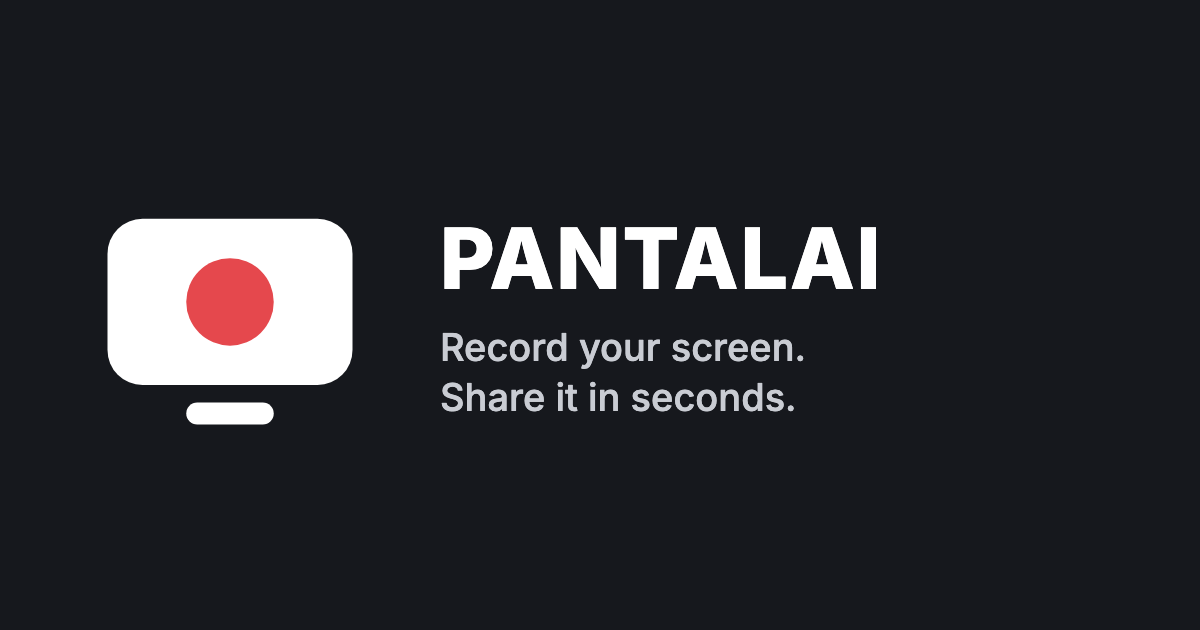
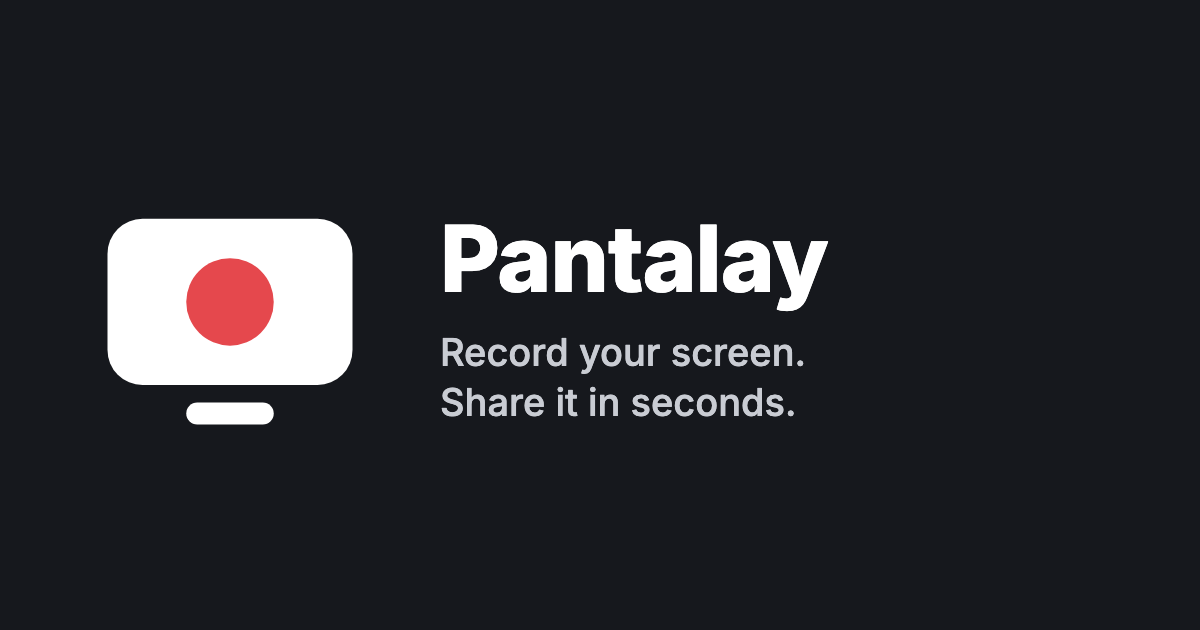
feat(marca): la marca pública pasa a ser Pantalay (pantallas, Docs, tarjeta para redes, descargas); por dentro sigue PANTALAI

Changed region(s): [[0.37, 0.3317, 0.74, 0.5127], [0.37, 0.5127, 0.6783, 0.6635]]

diff --git a/web/src/paginas/guias.ts b/web/src/paginas/guias.ts
@@ -29,7 +29,7 @@ export const GUIAS: Guia[] = [
       titulo: 'Start here: your first video in 5 minutes',
       resumen: 'Create your account, record, let AI do the rest, share and edit — step by step.',
       cuerpo: [
-        '1. Create your account. Open PANTALAI and press Sign up. Write your name, your email and a password of at least 8 characters, and press Create account. You land in your library.',
+        '1. Create your account. Open Pantalay and press Sign up. Write your name, your email and a password of at least 8 characters, and press Create account. You land in your library.',
         '2. Record. Press the red Record button. Choose Screen + Cam, pick your camera and microphone, choose the quality and the language you will speak, and press Start recording. Your browser asks what to share: choose a screen, a window or a tab and press Share. After a 3-second countdown, talk and show what you want.',
         '3. Finish. Press Finish (or “Stop sharing” in the browser bar). Your video is already uploaded and its link is copied: you can paste it anywhere right away.',
         '4. Let AI work. Your video opens and a line at the top shows that AI is working. In about a minute you get a title, a summary, chapters on the progress bar, the tasks you mentioned, and an accurate transcript with captions.',
@@ -42,7 +42,7 @@ export const GUIAS: Guia[] = [
       titulo: 'Empieza aquí: tu primer video en 5 minutos',
       resumen: 'Crea tu cuenta, graba, deja que la IA haga el resto, comparte y edita, paso a paso.',
       cuerpo: [
-        '1. Crea tu cuenta. Abre PANTALAI y toca Crear cuenta. Escribe tu nombre, tu correo y una contraseña de al menos 8 caracteres, y toca Crear cuenta. Llegas a tu biblioteca.',
+        '1. Crea tu cuenta. Abre Pantalay y toca Crear cuenta. Escribe tu nombre, tu correo y una contraseña de al menos 8 caracteres, y toca Crear cuenta. Llegas a tu biblioteca.',
         '2. Graba. Toca el botón rojo Grabar. Elige Pantalla + cámara, escoge tu cámara y tu micrófono, la calidad y el idioma en que vas a hablar, y toca Empezar a grabar. El navegador te pregunta qué compartir: elige una pantalla, una ventana o una pestaña y toca Compartir. Después de la cuenta de 3 segundos, habla y muestra lo que quieras.',
         '3. Termina. Toca Terminar (o «Dejar de compartir» en la barra del navegador). Tu video ya está subido y su enlace copiado: lo puedes pegar donde quieras de inmediato.',
         '4. Deja trabajar a la IA. Se abre tu video y arriba aparece que la IA está trabajando. En más o menos un minuto tienes título, resumen, capítulos en la barra, las tareas que mencionaste y una transcripción precisa con subtítulos.',
@@ -58,23 +58,23 @@ export const GUIAS: Guia[] = [
     icono: '👋',
     imagen: 'video',
     en: {
-      titulo: 'What is PANTALAI',
+      titulo: 'What is Pantalay',
       resumen: 'Record your screen and camera, and share it with a link in seconds.',
       cuerpo: [
-        'PANTALAI is a screen recorder that lives in your browser. There is nothing to install: open the site, press Record, and talk.',
+        'Pantalay is a screen recorder that lives in your browser. There is nothing to install: open the site, press Record, and talk.',
         'When you finish, your video is already uploaded and the link is copied. Paste it in an email, a chat or a ticket, and whoever opens it can watch right away — no account needed.',
         'Every video comes with a live transcript, captions, chapters, comments, reactions and insights about who watched it.',
-        'PANTALAI works best in Chrome or Edge on a computer. Firefox can record too; live transcription needs Chrome or Edge.',
+        'Pantalay works best in Chrome or Edge on a computer. Firefox can record too; live transcription needs Chrome or Edge.',
       ],
     },
     es: {
-      titulo: 'Qué es PANTALAI',
+      titulo: 'Qué es Pantalay',
       resumen: 'Graba tu pantalla y tu cámara, y compártelo con un enlace en segundos.',
       cuerpo: [
-        'PANTALAI es un grabador de pantalla que vive en tu navegador. No hay nada que instalar: abres el sitio, tocas Grabar y hablas.',
+        'Pantalay es un grabador de pantalla que vive en tu navegador. No hay nada que instalar: abres el sitio, tocas Grabar y hablas.',
         'Cuando terminas, el video ya está subido y el enlace copiado. Pégalo en un correo, un chat o un ticket, y quien lo abra lo ve al instante, sin necesidad de cuenta.',
         'Cada video trae transcripción en vivo, subtítulos, capítulos, comentarios, reacciones y estadísticas de quién lo vio.',
-        'PANTALAI funciona mejor en Chrome o Edge en una computadora. Firefox también graba; la transcripción en vivo necesita Chrome o Edge.',
+        'Pantalay funciona mejor en Chrome o Edge en una computadora. Firefox también graba; la transcripción en vivo necesita Chrome o Edge.',
       ],
     },
   },
@@ -116,7 +116,7 @@ export const GUIAS: Guia[] = [
         'Choose the quality: 720p, 1080p HD or 4K. There is no time limit and no watermark.',
         'Press Start recording. Your browser asks which screen, window or tab to share — choose it and press Share. After a 3-second countdown, you are live.',
         'While recording you can Pause, Resume, Restart or Discard. When you are done, press Finish, or press “Stop sharing” in the bar of your browser.',
-        'Shortcuts while the PANTALAI tab is open: Alt + Shift + P pauses or resumes, Alt + Shift + S finishes.',
+        'Shortcuts while the Pantalay tab is open: Alt + Shift + P pauses or resumes, Alt + Shift + S finishes.',
       ],
     },
     es: {
@@ -128,7 +128,7 @@ export const GUIAS: Guia[] = [
         'Elige la calidad: 720p, 1080p HD o 4K. No hay límite de tiempo ni marca de agua.',
         'Toca Empezar a grabar. El navegador te pregunta qué pantalla, ventana o pestaña compartir: elígela y toca Compartir. Tras una cuenta de 3 segundos, estás grabando.',
         'Mientras grabas puedes Pausar, Seguir, Reiniciar o Descartar. Cuando termines, toca Terminar, o toca «Dejar de compartir» en la barra del navegador.',
-        'Atajos con la pestaña de PANTALAI abierta: Alt + Shift + P pausa o sigue, Alt + Shift + S termina.',
+        'Atajos con la pestaña de Pantalay abierta: Alt + Shift + P pausa o sigue, Alt + Shift + S termina.',
       ],
     },
   },
@@ -189,7 +189,7 @@ export const GUIAS: Guia[] = [
       resumen: 'If the internet drops, the recording stays safe on your computer.',
       cuerpo: [
         'Your video uploads while you record, piece by piece. Each piece is also kept on your computer until the upload finishes.',
-        'If the connection fails, PANTALAI keeps trying on its own. If it still cannot finish, you will see Try again and Download recording.',
+        'If the connection fails, Pantalay keeps trying on its own. If it still cannot finish, you will see Try again and Download recording.',
         'If you closed the tab before it finished, open your library: recordings saved on this computer appear at the top, ready to download.',
       ],
     },
@@ -198,7 +198,7 @@ export const GUIAS: Guia[] = [
       resumen: 'Si se cae el internet, la grabación queda a salvo en tu computadora.',
       cuerpo: [
         'El video se sube mientras grabas, por partes. Cada parte también queda guardada en tu computadora hasta que la subida termina.',
-        'Si la conexión falla, PANTALAI sigue intentando solo. Si aun así no puede terminar, verás Intentar otra vez y Descargar la grabación.',
+        'Si la conexión falla, Pantalay sigue intentando solo. Si aun así no puede terminar, verás Intentar otra vez y Descargar la grabación.',
         'Si cerraste la pestaña antes de que terminara, abre tu biblioteca: arriba aparecen las grabaciones guardadas en esta computadora, listas para descargar.',
       ],
     },
@@ -309,7 +309,7 @@ export const GUIAS: Guia[] = [
       cuerpo: [
         'The progress bar is split by chapters: hover a part to see its name.',
         'Shortcuts: K or space plays and pauses, J and L go back and forward 5 seconds, M mutes, A turns captions on or off, S changes the speed, T switches theater mode, F goes full screen and P opens picture-in-picture.',
-        'Speeds go from 0.5× to 2.5×. PANTALAI remembers the speed you like.',
+        'Speeds go from 0.5× to 2.5×. Pantalay remembers the speed you like.',
       ],
     },
     es: {
@@ -318,7 +318,7 @@ export const GUIAS: Guia[] = [
       cuerpo: [
         'La barra de progreso está partida por capítulos: pasa el mouse por una parte para ver su nombre.',
         'Atajos: K o la barra espaciadora reproducen y pausan, J y L van 5 segundos atrás y adelante, M silencia, A enciende o apaga los subtítulos, S cambia la velocidad, T cambia el modo teatro, F pone pantalla completa y P abre la imagen en imagen.',
-        'Las velocidades van de 0.5× a 2.5×. PANTALAI recuerda la velocidad que te gusta.',
+        'Las velocidades van de 0.5× a 2.5×. Pantalay recuerda la velocidad que te gusta.',
       ],
     },
   },
@@ -334,7 +334,7 @@ export const GUIAS: Guia[] = [
         'Open your video and press Edit.',
         'Trim: move Start and End to cut the beginning and the end. “Use current time” takes the minute you are watching.',
         'Cut by transcript: tap a sentence to remove that part. Tap it again to bring it back.',
-        'Remove silences: PANTALAI listens to the audio, finds long pauses and cuts them for you.',
+        'Remove silences: Pantalay listens to the audio, finds long pauses and cuts them for you.',
         'Turn on Preview to watch the final version. Edits never touch your original file, so you can undo anything later. Press Save when you are happy.',
       ],
     },
@@ -345,7 +345,7 @@ export const GUIAS: Guia[] = [
         'Abre tu video y toca Editar.',
         'Recortar: mueve Inicio y Final para quitar el principio y el final. «Usar el minuto actual» toma el minuto que estás viendo.',
         'Cortar con la transcripción: toca una frase para quitar esa parte. Tócala otra vez para devolverla.',
-        'Quitar silencios: PANTALAI escucha el audio, encuentra las pausas largas y las corta por ti.',
+        'Quitar silencios: Pantalay escucha el audio, encuentra las pausas largas y las corta por ti.',
         'Enciende Vista previa para ver cómo queda. Editar nunca toca tu archivo original, así que puedes deshacer cualquier cosa después. Toca Guardar cuando te guste.',
       ],
     },
@@ -356,7 +356,7 @@ export const GUIAS: Guia[] = [
     icono: '📑',
     en: {
       titulo: 'Chapters, title and summary',
-      resumen: 'Let PANTALAI suggest them from what you said, or write your own.',
+      resumen: 'Let Pantalay suggest them from what you said, or write your own.',
       cuerpo: [
         'In the editor, “Suggest title from transcript” proposes a title from your first words. You can change it any time.',
         'Generate chapters splits the video where you paused, using your own words as names. You can rename, add or delete chapters.',
@@ -365,7 +365,7 @@ export const GUIAS: Guia[] = [
     },
     es: {
       titulo: 'Capítulos, título y resumen',
-      resumen: 'Deja que PANTALAI los sugiera con lo que dijiste, o escríbelos tú.',
+      resumen: 'Deja que Pantalay los sugiera con lo que dijiste, o escríbelos tú.',
       cuerpo: [
         'En el editor, «Sugerir título con la transcripción» propone un título con tus primeras palabras. Lo puedes cambiar cuando quieras.',
         'Crear capítulos parte el video donde hiciste pausas, con tus propias palabras como nombre. Puedes renombrar, agregar o borrar capítulos.',
@@ -435,7 +435,7 @@ export const GUIAS: Guia[] = [
       cuerpo: [
         'Open your video and press Edit. If AI found filler sounds, you will see “Remove filler words” with how many it found and how many seconds it saves.',
         'Press it and those moments are skipped when people watch. Turn on Preview to hear the result.',
-        'Like every edit in PANTALAI, it never touches the original file: press “Bring back all cuts” to undo it.',
+        'Like every edit in Pantalay, it never touches the original file: press “Bring back all cuts” to undo it.',
       ],
     },
     es: {
@@ -444,7 +444,7 @@ export const GUIAS: Guia[] = [
       cuerpo: [
         'Abre tu video y toca Editar. Si la IA encontró muletillas, verás «Quitar muletillas» con cuántas encontró y cuántos segundos ahorra.',
         'Tócalo y esos momentos se saltan cuando alguien lo ve. Enciende Vista previa para escuchar cómo queda.',
-        'Como toda edición en PANTALAI, nunca toca el archivo original: toca «Devolver todos los cortes» para deshacerlo.',
+        'Como toda edición en Pantalay, nunca toca el archivo original: toca «Devolver todos los cortes» para deshacerlo.',
       ],
     },
   },

diff --git a/servidor/app.ts b/servidor/app.ts
@@ -1025,7 +1025,7 @@ app.get('/media/:id/video', async (c) => {
   h.set('Cache-Control', v.privacidad === 'enlace' ? 'private, no-cache' : 'private, no-store');
   h.set('ETag', obj.httpEtag);
   if (descargar) {
-    const nombre = v.titulo.replace(/[^\p{L}\p{N} _-]/gu, '').slice(0, 80) || 'pantalai';
+    const nombre = v.titulo.replace(/[^\p{L}\p{N} _-]/gu, '').slice(0, 80) || 'pantalay';
     h.set(
       'Content-Disposition',
       `attachment; filename="${nombre}.${v.tipo.includes('mp4') ? 'mp4' : 'webm'}"`,
@@ -1061,7 +1061,7 @@ function escaparAtributo(t: string): string {
 }
 
 async function paginaApp(c: C): Promise<Response> {
-  if (!c.env.ASSETS) return c.text('PANTALAI', 200);
+  if (!c.env.ASSETS) return c.text('Pantalay', 200);
   const origen = new URL(c.req.url).origin;
   // La página base es app.html; algunos servidores de estáticos redirigen «/app.html» a «/app»: se sigue una vez.
   let r = await c.env.ASSETS.fetch(new Request(`${origen}/app.html`));
@@ -1070,7 +1070,7 @@ async function paginaApp(c: C): Promise<Response> {
     r = await c.env.ASSETS.fetch(new Request(new URL(destino, origen)));
   if (!r.ok) {
     console.error('página base no encontrada', r.status);
-    return c.text('PANTALAI', 500);
+    return c.text('Pantalay', 500);
   }
   return new Response(r.body, { status: 200, headers: { 'content-type': 'text/html; charset=utf-8' } });
 }
@@ -1081,8 +1081,8 @@ app.get('/v/:id', async (c) => {
   const v = await buscarVideo(c, c.req.param('id'));
   if (!v || v.estado !== 'listo' || v.privacidad !== 'enlace') return pagina;
   const origen = new URL(c.req.url).origin;
-  const titulo = escaparAtributo(`${v.titulo} · PANTALAI`);
-  const desc = escaparAtributo(v.descripcion.slice(0, 200) || 'Video on PANTALAI');
+  const titulo = escaparAtributo(`${v.titulo} · Pantalay`);
+  const desc = escaparAtributo(v.descripcion.slice(0, 200) || 'Video on Pantalay');
   const imagen = v.tiene_miniatura ? `${origen}/media/${v.id}/miniatura` : `${origen}/og.png`;
   const html = (await pagina.text())
     .replace(/<title>[^<]*<\/title>/, `<title>${titulo}</title>`)
@@ -1096,7 +1096,7 @@ app.get('/v/:id', async (c) => {
 app.all('/datos/*', (c) => err(c, 404, 'ruta'));
 
 app.get('*', async (c) => {
-  if (!c.env.ASSETS) return c.text('PANTALAI', 200);
+  if (!c.env.ASSETS) return c.text('Pantalay', 200);
   const r = await c.env.ASSETS.fetch(c.req.raw);
   // Copia con cabeceras propias: las del almacén de estáticos no se pueden modificar.
   if (r.status !== 404) return new Response(r.body, r);

diff --git a/web/src/logica/idioma.ts b/web/src/logica/idioma.ts
@@ -9,7 +9,7 @@ export const IDIOMAS: { codigo: Idioma; bandera: string }[] = [
 ];
 
 const en = {
-  marca: 'PANTALAI',
+  marca: 'Pantalay',
   lema: 'Record your screen. Share it in seconds.',
   sublema:
     'Screen, camera and voice in one click. Your link is ready the moment you stop, with live captions, chapters and viewer insights. Free.',
@@ -30,7 +30,7 @@ const en = {
   ocultarClave: 'Hide password',
   crearCuenta: 'Create account',
   yaTengo: 'Already have an account?',
-  noTengo: 'New to PANTALAI?',
+  noTengo: 'New to Pantalay?',
   recuperado: 'We recovered what you were typing.',
   empezarDeNuevo: 'Start over',
   // errores
@@ -157,7 +157,7 @@ const en = {
   atras: 'Back 5 seconds',
   adelante: 'Forward 5 seconds',
   atajos: 'Shortcuts: K play · J/L ±5s · M mute · A captions · S speed · T theater · F full screen',
-  grabadoCon: 'Recorded with PANTALAI',
+  grabadoCon: 'Recorded with Pantalay',
   hazElTuyo: 'Record your own',
   // compartir
   compartirTitulo: 'Share this video',
@@ -258,7 +258,7 @@ const en = {
 type Clave = keyof typeof en;
 
 const es: Record<Clave, string> = {
-  marca: 'PANTALAI',
+  marca: 'Pantalay',
   lema: 'Graba tu pantalla. Compártela en segundos.',
   sublema:
     'Pantalla, cámara y voz con un clic. El enlace está listo en cuanto terminas, con subtítulos en vivo, capítulos y estadísticas de quién lo vio. Gratis.',
@@ -278,7 +278,7 @@ const es: Record<Clave, string> = {
   ocultarClave: 'Ocultar la contraseña',
   crearCuenta: 'Crear cuenta',
   yaTengo: '¿Ya tienes cuenta?',
-  noTengo: '¿Eres nuevo en PANTALAI?',
+  noTengo: '¿Eres nuevo en Pantalay?',
   recuperado: 'Recuperamos lo que estabas escribiendo.',
   empezarDeNuevo: 'Empezar de nuevo',
   'error.credenciales': 'El correo y la contraseña no coinciden.',
@@ -404,7 +404,7 @@ const es: Record<Clave, string> = {
   adelante: 'Adelante 5 segundos',
   atajos:
     'Atajos: K reproducir · J/L ±5 s · M silencio · A subtítulos · S velocidad · T teatro · F pantalla completa',
-  grabadoCon: 'Grabado con PANTALAI',
+  grabadoCon: 'Grabado con Pantalay',
   hazElTuyo: 'Graba el tuyo',
   compartirTitulo: 'Compartir este video',
   quienVe: 'Quién puede verlo',

diff --git a/web/index.html b/web/index.html
@@ -3,14 +3,14 @@
   <head>
     <meta charset="UTF-8" />
     <meta name="viewport" content="width=device-width, initial-scale=1.0" />
-    <title>PANTALAI — Free screen recorder with instant sharing</title>
+    <title>Pantalay — Free screen recorder with instant sharing</title>
     <meta name="description" content="Record your screen and camera in your browser and share it with a link in seconds. Live transcript, captions, chapters, comments and viewer insights." />
     <link rel="icon" type="image/png" href="/icon.png" />
     <link rel="apple-touch-icon" href="/apple-icon.png" />
     <meta name="theme-color" content="#16181d" />
     <meta property="og:type" content="website" />
-    <meta property="og:site_name" content="PANTALAI" />
-    <meta property="og:title" content="PANTALAI — Free screen recorder with instant sharing" />
+    <meta property="og:site_name" content="Pantalay" />
+    <meta property="og:title" content="Pantalay — Free screen recorder with instant sharing" />
     <meta property="og:description" content="Record your screen and camera and share it with a link in seconds." />
     <meta property="og:image" content="https://pantalai.sitios.dev/og.png" />
     <meta property="og:url" content="https://pantalai.sitios.dev/" />

diff --git a/web/src/paginas/Grabar.tsx b/web/src/paginas/Grabar.tsx
@@ -265,7 +265,7 @@ export function Grabar() {
     const url = URL.createObjectURL(s.archivo(g?.tipo.split(';')[0] ?? 'video/webm'));
     const enlace = document.createElement('a');
     enlace.href = url;
-    enlace.download = `pantalai-${new Date().toISOString().slice(0, 19).replace(/[:T]/g, '-')}.webm`;
+    enlace.download = `pantalay-${new Date().toISOString().slice(0, 19).replace(/[:T]/g, '-')}.webm`;
     enlace.click();
     setTimeout(() => URL.revokeObjectURL(url), 10_000);
   }
@@ -617,7 +617,7 @@ export function Respaldos() {
                 const url = URL.createObjectURL(b);
                 const enlace = document.createElement('a');
                 enlace.href = url;
-                enlace.download = `pantalai-${r.id}.${r.tipo.includes('mp4') ? 'mp4' : 'webm'}`;
+                enlace.download = `pantalay-${r.id}.${r.tipo.includes('mp4') ? 'mp4' : 'webm'}`;
                 enlace.click();
                 setTimeout(() => URL.revokeObjectURL(url), 10_000);
               })

diff --git a/web/src/paginas/Video.tsx b/web/src/paginas/Video.tsx
@@ -54,7 +54,7 @@ export function PaginaVideo({ id, embebido = false }: { id: string; embebido?: b
     try {
       const r = await pedir<{ video: Video }>(`/datos/videos/${id}`);
       setVideo(r.video);
-      document.title = `${r.video.titulo} · PANTALAI`;
+      document.title = `${r.video.titulo} · Pantalay`;
     } catch (e) {
       setError(textoError(t, e instanceof ErrorApi ? e.codigo : 'servidor'));
     }
@@ -160,7 +160,7 @@ export function PaginaVideo({ id, embebido = false }: { id: string; embebido?: b
       <div className="embebido">
         {reproductorEl}
         <a className="marca-embebido" href={enlaceVideo(video.id)} target="_blank" rel="noopener noreferrer">
-          {video.titulo} · PANTALAI
+          {video.titulo} · Pantalay
         </a>
       </div>
     );

diff --git a/web/src/componentes/IA.tsx b/web/src/componentes/IA.tsx
@@ -245,11 +245,11 @@ ${doc.pasos
       }</li>`,
   )
   .join('\n')}
-</ol><p>${escapar(doc.cierre)}</p><p style="color:#6b7280;font-size:13px">PANTALAI · <a href="${enlace}">${enlace}</a></p></body>`;
+</ol><p>${escapar(doc.cierre)}</p><p style="color:#6b7280;font-size:13px">Pantalay · <a href="${enlace}">${enlace}</a></p></body>`;
     const url = URL.createObjectURL(new Blob([html], { type: 'text/html' }));
     const a = document.createElement('a');
     a.href = url;
-    a.download = `${doc.titulo.replace(/[^\p{L}\p{N} _-]/gu, '').slice(0, 60) || 'pantalai'}.html`;
+    a.download = `${doc.titulo.replace(/[^\p{L}\p{N} _-]/gu, '').slice(0, 60) || 'pantalay'}.html`;
     a.click();
     setTimeout(() => URL.revokeObjectURL(url), 10_000);
   }

diff --git a/servidor/ia/motor.ts b/servidor/ia/motor.ts
@@ -77,8 +77,8 @@ export class ErrorIA extends Error {
 
 /** Frase de arranque para que Whisper escriba las muletillas en vez de borrarlas (así se pueden quitar luego). */
 const ARRANQUE: Record<string, string> = {
-  en: 'Umm, let me think like, hmm... Okay, here is what I, uh, mean. PANTALAI.',
-  es: 'Eh, a ver, mmm... bueno, este, lo que quiero decir es, eh, esto. PANTALAI.',
+  en: 'Umm, let me think like, hmm... Okay, here is what I, uh, mean. Pantalay.',
+  es: 'Eh, a ver, mmm... bueno, este, lo que quiero decir es, eh, esto. Pantalay.',
 };
 
 type RespuestaWhisper = {

diff --git a/web/src/componentes/Marco.tsx b/web/src/componentes/Marco.tsx
@@ -12,7 +12,7 @@ export function Logo() {
         <circle cx="16" cy="14.5" r="5" fill="var(--rojo)" />
         <rect x="11" y="26" width="10" height="2.5" rx="1.25" fill="var(--tinta)" />
       </svg>
-      PANTALAI
+      Pantalay
     </span>
   );
 }
@@ -41,7 +41,7 @@ export function Encabezado() {
         href={usuario ? '/library' : '/'}
         onClick={alClicEnlace}
         className="encabezado-logo"
-        aria-label="PANTALAI"
+        aria-label="Pantalay"
       >
         <Logo />
       </a>

diff --git a/web/src/paginas/Docs.tsx b/web/src/paginas/Docs.tsx
@@ -12,7 +12,7 @@ export function Docs({ slug }: { slug: string }) {
   const guia = GUIAS.find((g) => g.slug === slug);
 
   useEffect(() => {
-    document.title = guia ? `${guia[idioma].titulo} · PANTALAI Docs` : 'PANTALAI Docs';
+    document.title = guia ? `${guia[idioma].titulo} · Pantalay Docs` : 'Pantalay Docs';
   }, [guia, idioma]);
   useEffect(() => {
     const tecla = (e: KeyboardEvent) => {

diff --git a/CLAUDE.md b/CLAUDE.md
@@ -1,7 +1,12 @@
-# PANTALAI
+# PANTALAI (marca pública: Pantalay)
 
 Grabador de pantalla y cámara en el navegador, con enlace al instante (estilo Loom), de Windoce LLC.
 Las reglas globales de Richard aplican; estas se suman.
+
+**Marca (dictado por Richard el 19 oct 2026):** lo que ve el público se llama **Pantalay** (el dominio
+pantalay.com está libre; pantalai no). Por dentro TODO sigue llamándose PANTALAI: carpeta, repositorio, sitio
+`pantalai` de YaDominios, base, tablas, llaves de almacenamiento del navegador (`pantalai:…`), cabecera
+`x-pantalai` y cookie. Solo se cambia el texto visible (pantallas, Docs, correos, tarjeta para redes).
 
 ## Leer antes de trabajar
 
